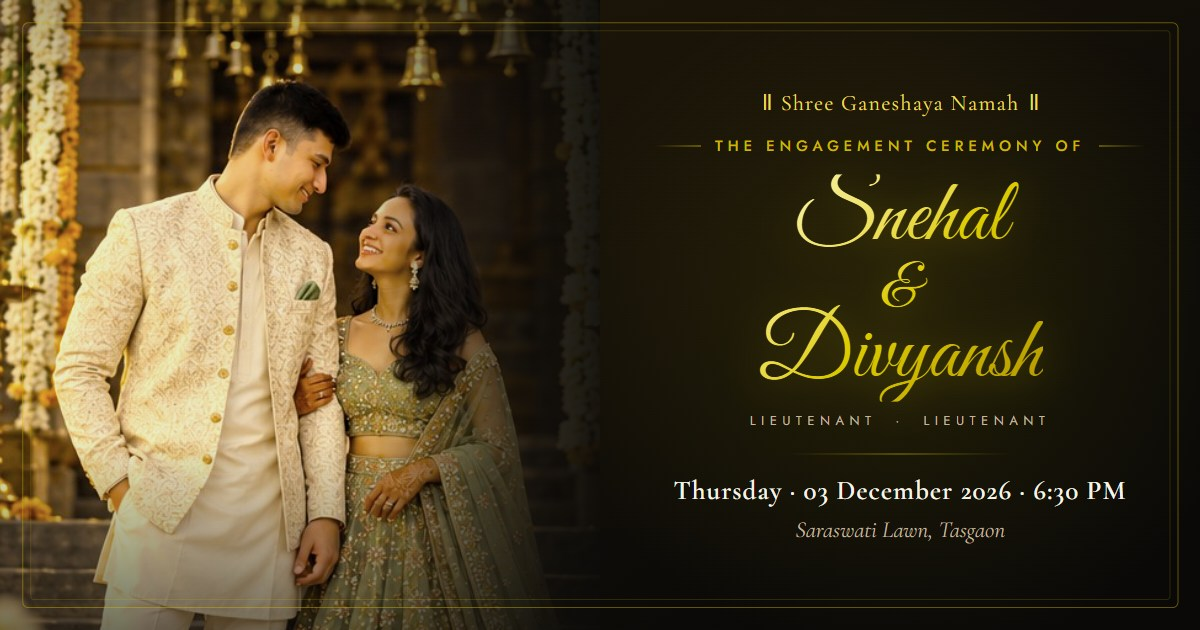
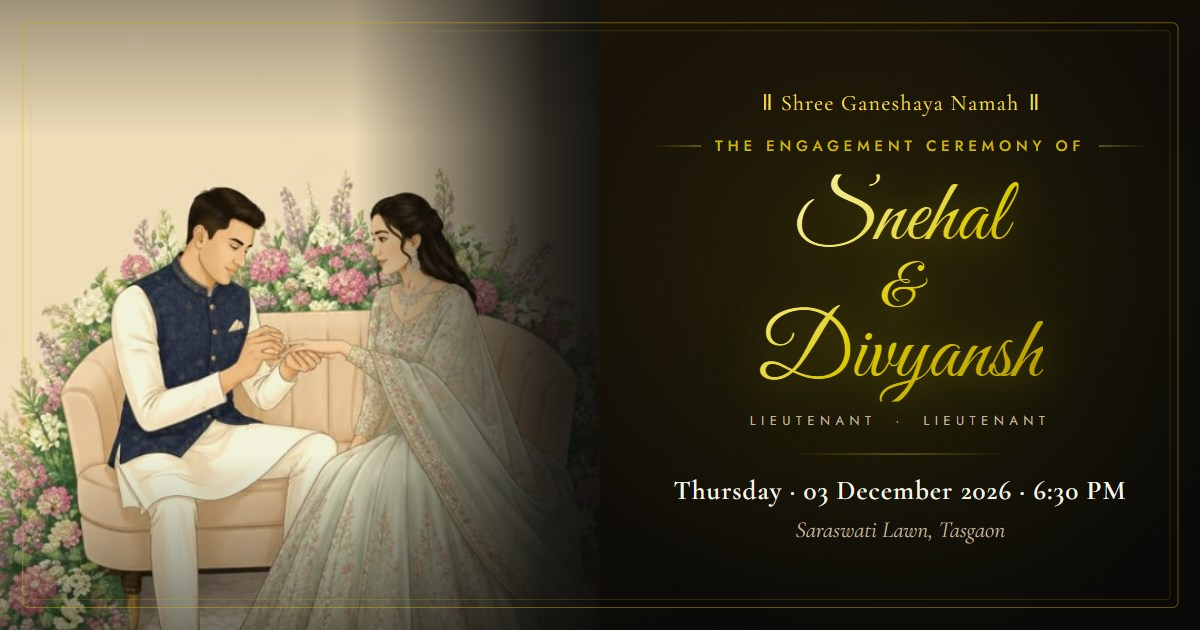
Replace real couple photos with illustrations
Per the families' request, use the two illustrated artworks instead of real
photographs: swing illustration (background removed) behind the hero names,
ring ceremony illustration on the venue card and footer, and a regenerated
1200x630 share preview built around the ring ceremony artwork.

diff --git a/src/components/HeroSection.jsx b/src/components/HeroSection.jsx
@@ -5,12 +5,12 @@ export default function HeroSection() {
   return (
     <section className="relative flex min-h-[100dvh] w-full flex-col items-center justify-center overflow-hidden px-4 pt-6 pb-12 sm:py-16 text-center bg-[#0a0908]">
       {/* Dark Romantic Couple Background Image */}
-      <div className="absolute inset-0 z-0 overflow-hidden opacity-25">
+      <div className="absolute inset-0 z-0 overflow-hidden opacity-30">
         <img
-          src="/images/couple/hero_couple.jpg"
+          src="/images/couple/swing_couple.png"
           alt="Snehal & Divyansh"
-          className="h-full w-full object-cover scale-105"
-          style={{ filter: 'sepia(0.35) saturate(0.95) contrast(1.1) brightness(0.95)' }}
+          className="h-full w-full object-contain object-bottom"
+          style={{ filter: 'sepia(0.35) saturate(0.95) contrast(1.05)' }}
         />
         <div className="absolute inset-0 bg-radial from-transparent via-[#0a0908]/80 to-[#0a0908]" />
         <div className="absolute inset-0 bg-gradient-to-b from-[#0a0908] via-transparent to-[#0a0908]" />

diff --git a/src/components/NikkahEventSection.jsx b/src/components/NikkahEventSection.jsx
@@ -52,10 +52,10 @@ export const NikkahEventSection = () => {
           {/* Couple Image */}
           <div className="w-full h-[240px] xs:h-[260px] relative overflow-hidden bg-[#15100a] shrink-0">
             <img 
-              src="/images/couple/venue_couple.jpg" 
-              alt="Snehal & Divyansh" 
-              className="w-full h-full object-cover object-center select-none block pointer-events-none hover:scale-105 transition-transform duration-700"
-              style={{ filter: 'sepia(0.3) saturate(0.95) contrast(1.05) brightness(0.88)' }}
+              src="/images/couple/ring_ceremony.jpg" 
+              alt="Snehal & Divyansh ring ceremony" 
+              className="w-full h-full object-cover select-none block pointer-events-none hover:scale-105 transition-transform duration-700"
+              style={{ objectPosition: 'center 66%', filter: 'sepia(0.25) saturate(0.95) contrast(1.05) brightness(0.9)' }}
             />
             <div className="absolute inset-0 bg-gradient-to-t from-[#140f0a] via-transparent to-black/20" />
           </div>

diff --git a/src/components/FooterSection.jsx b/src/components/FooterSection.jsx
@@ -13,7 +13,7 @@ export const FooterSection = () => {
       {/* Background Stage Image */}
       <div
         className="absolute inset-0 pointer-events-none bg-cover bg-center opacity-25 filter contrast-110"
-        style={{ backgroundImage: `url('/images/couple/footer_couple.png')`, filter: 'sepia(0.35) contrast(1.1)' }}
+        style={{ backgroundImage: `url('/images/couple/ring_ceremony.jpg')`, backgroundPosition: 'center 70%', filter: 'sepia(0.35) contrast(1.1)' }}
       />
 
       {/* Darkened vignette overlay */}
